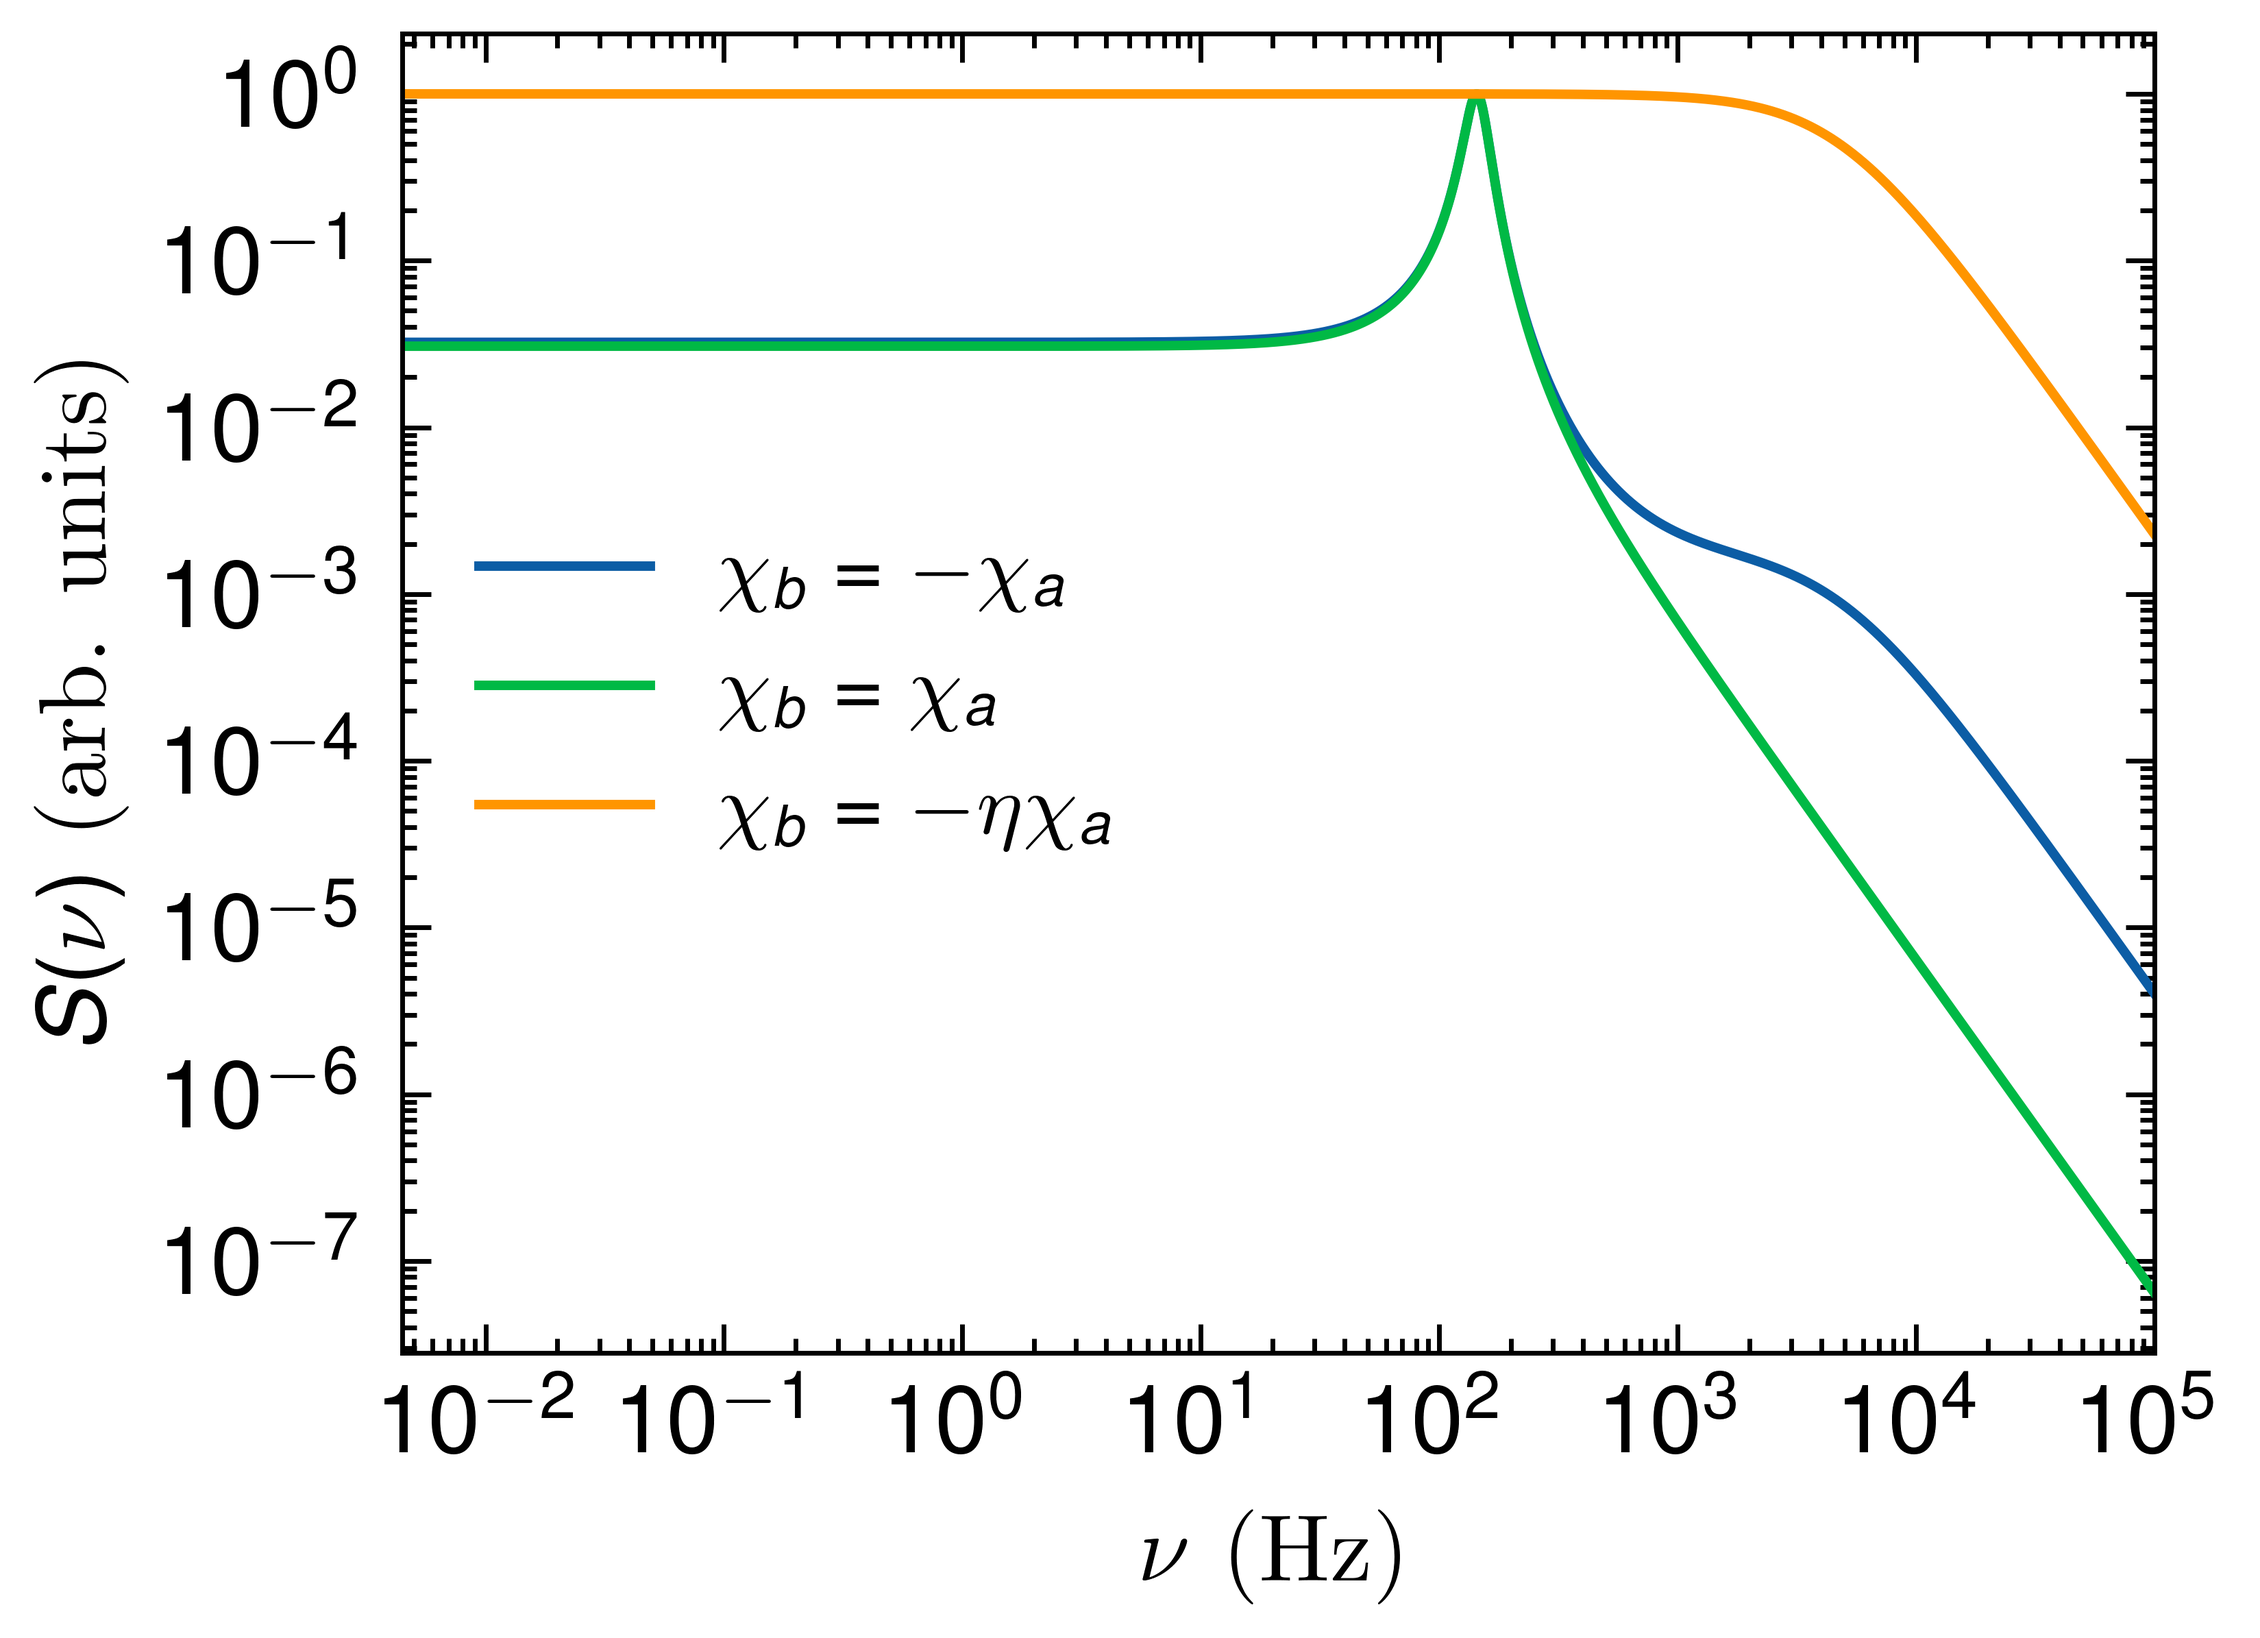
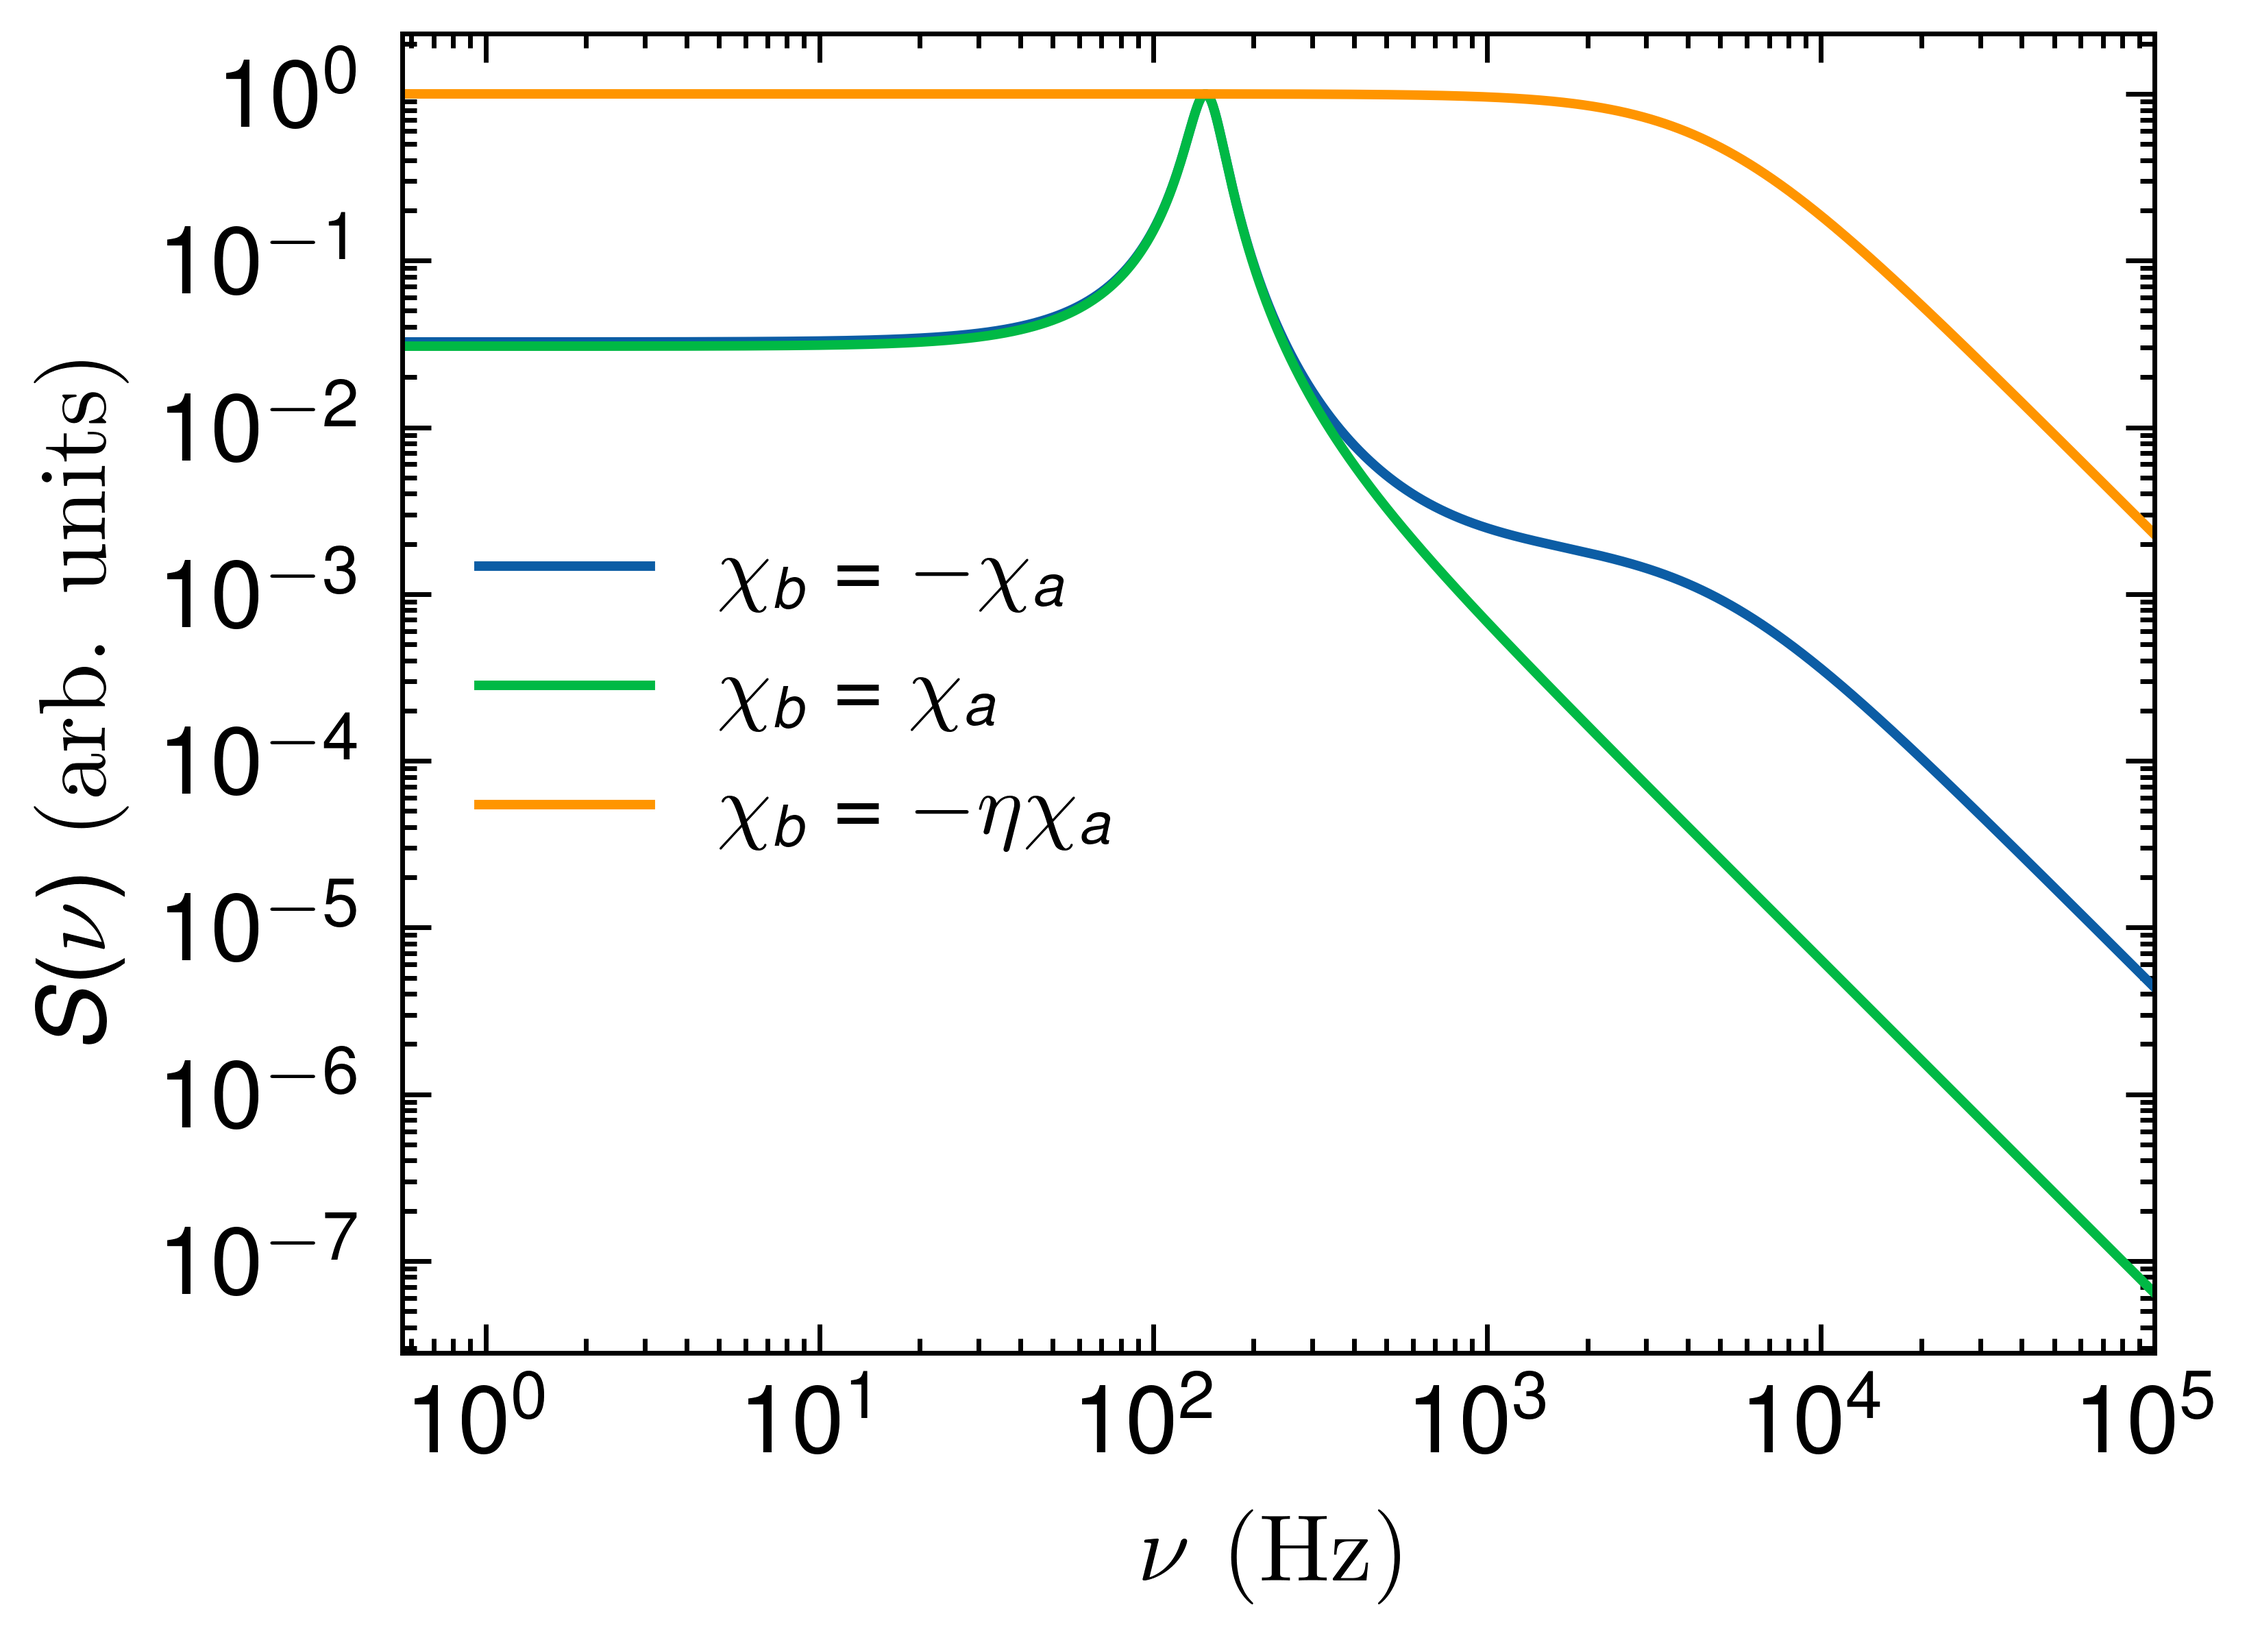
1

diff --git a/test4.py b/test4.py
@@ -15,11 +15,12 @@ import scienceplots
 from tqdm import trange
 
 I=3/2
-omega_0=0.05
+omega_0=0.01
 dt=0.01
-T=200
+T=50000
 # cycle=round(5e5)
 # omega_0=0.05
+P=0.99
 # --------------------------------Properties of the alkali metal atom-----------------------------------#
 a = round(I + 1 / 2)
 b = round(I - 1 / 2)
@@ -35,13 +36,10 @@ Sz = U.T.conjugate() @ Sz @ U
 
 # --------------------------------Characterize interactions envolved-----------------------------------#
 Rse = 1
-# --------------------------------Define the initial state-----------------------------------#
-hyperfine = block_diag(np.ones((2 * a + 1, 2 * a + 1)), np.ones((2 * b + 1, 2 * b + 1)))  # 一个原子
-H = omega_0 * (az - bz)  # 投影定理
-q, v = np.linalg.eig(H)
-evolving_B = v @ np.diag(np.exp(-1j * q * dt)) @ np.linalg.inv(v)
 
-theta = np.pi / 180
+
+# --------------------------------Define the initial state-----------------------------------#
+theta = np.pi / 2
 phi = 0
 a_theta = spin_Jx(a) * np.sin(theta) * np.cos(phi) + spin_Jy(a) * np.sin(theta) * np.sin(phi) + spin_Jz(a) * np.cos(
     theta)
@@ -50,23 +48,51 @@ b_theta = spin_Jx(b) * np.sin(theta) * np.cos(phi) + spin_Jy(b) * np.sin(theta) 
 qa, va = np.linalg.eig(a_theta.full())
 qb, vb = np.linalg.eig(b_theta.full())
 v = block_diag(va, vb)
-eigenvalues = np.hstack((qa, qb))
-cycle=round(T/dt)
-module = np.zeros(cycle)
-PP = np.zeros(cycle)
-Gammam1 = np.zeros(cycle)
-Gammam2 = np.zeros(cycle)
-
-P=0.5
+q = np.hstack((qa, qb))
 Rho_ini = np.zeros(2 * (a + b + 1))
 # # -----------------spin temperature state-----------------#
 beta = np.log((1 + P) / (1 - P))
 for i in np.arange(0, 2 * (a + b + 1), 1):
-    Rho_ini = Rho_ini + np.exp(beta * eigenvalues[i]) * v[:, [i]] * v[:, [i]].T.conjugate()
+    Rho_ini = Rho_ini + np.exp(beta * q[i]) * v[:, [i]] * v[:, [i]].T.conjugate()
 Rho_ini = Rho_ini / np.trace(Rho_ini)
-Rhot = Rho_ini
 
-for n in np.arange(0,cycle,1):
+# -----------------eigenstates-----------------#
+
+# Rho_ini = np.outer(np.array([0, 1, 0, 0, 0, 0, 0, 0]), np.array([0, 1, 0, 0, 0, 0, 0, 0]))
+
+# --------------------------------------Evolution under hyperfine effect, etc.--------------------------------#
+Rhot = Rho_ini
+hyperfine = block_diag(np.ones((2 * a + 1, 2 * a + 1)), np.ones((2 * b + 1, 2 * b + 1)))  # 一个原子
+cycle=round(T/dt)
+FF = np.zeros(cycle)
+PP = np.zeros(cycle)
+Gammam1 = np.zeros(cycle)
+Gammam2 = np.zeros(cycle)
+Gammam3 = np.zeros(cycle)
+
+# MFx = np.array([])
+# MFy = np.array([])
+# MPx = np.array([])
+# MPy = np.array([])
+H = omega_0 * (az - bz)  # 投影定理
+q, v = np.linalg.eig(H)
+evolving_B = v @ np.diag(np.exp(-1j * q * dt)) @ np.linalg.inv(v)
+for k in np.arange(10000):
+    # -----------------Evolution-----------------#
+    x1 = Rhot @ Sx
+    x2 = Rhot @ Sy
+    x3 = Rhot @ Sz
+    AS = 3 / 4 * Rhot - (Sx @ x1 + Sy @ x2 + Sz @ x3)
+    alpha = Rhot - AS
+    mSx = np.trace(x1)
+    mSy = np.trace(x2)
+    mSz = np.trace(x3)
+    mSS = mSx * Sx + mSy * Sy + mSz * Sz
+    Rhot = evolving_B @ Rhot @ evolving_B.T.conjugate()  # Zeeman effect
+    Rhot = Rse * (alpha + 4 * alpha @ mSS - Rhot) * dt + Rhot
+    Rhot = hyperfine * Rhot
+
+for n in trange(cycle):
     # -----------------Evolution-----------------#
     x1 = Rhot @ Sx
     x2 = Rhot @ Sy
@@ -85,44 +111,35 @@ for n in np.arange(0,cycle,1):
 
     eta=(5+3*P_t**2)/(1-P_t**2)
     q=2*(3+P_t**2)/(1+P_t**2)
-
-    if a==2:
-        eta=(5+3*P_t**2)/(1-P_t**2)
-        q=2*(3+P_t**2)/(1+P_t**2)
-    if a==3:
-        q=2*(19+26*P_t**2+3*P_t**4)/(3+10*P_t**2+3*P_t**4)
-        eta=(q+6)/(q-6)
-    if a==4:
-        q=2*(11+35*P_t**2+17*P_t**4+P_t**6)/(1+7*P_t**2+7*P_t**4+P_t**6)
-        eta=(q+8)/(q-8)
-
-    max=np.trace((ax)@Rhot)
-    mbx=np.trace((bx)@Rhot)
-    may=np.trace((ay)@Rhot)
-    mby=np.trace((by)@Rhot)
-    mcx=np.trace((ax-bx)@Rhot)
-    mcy=np.trace((ay-by)@Rhot)
-    module[n]=np.arccos(((max**2+may**2)+(mbx**2+mby**2)-(mcx**2+mcy**2))/(2*np.sqrt((max**2+may**2))*np.sqrt((mbx**2+mby**2))))
-    PP[n]=max
+    max = np.trace((ax)@Rhot)
+    mbx = np.trace((bx)@Rhot)
+    mFx = max+mbx
+    may = np.trace((ay)@Rhot)
+    mby = np.trace((by)@Rhot)
+    mFy = may+mby
+    module=np.sqrt(mFx**2+mFy**2)
+    ex=mFx/module
+    ey=mFy/module
+    maX=max*ex+may*ey
+    mbX=mbx*ex+mby*ey
+    maY=np.sqrt((max**2+may**2)-(max*ex+may*ey)**2)
+    mbY=-np.sqrt((mbx**2+mby**2)-(mbx*ex+mby*ey)**2)
+    Gammam1[n] =maX-eta*mbX
+    Gammam2[n] =maY-eta*mbY
+    Gammam3[n] =maY+eta*mbY
 
 
-    # Vx = np.trace(Rhot @ ((ax + bx) @ (ax + bx) + (ay + by) @ (ay + by) + (az + bz) @ (az + bz)))
-    # V[n] = V
 
-plt.style.use(['science','nature'])
-with plt.style.context(['science','nature']):
-    fig = plt.figure()
-    plt.rc('font',family='Times New Roman')
-    ax3 = fig.add_subplot(111)
-    ax3.plot(np.arange(0,cycle,1)*dt,module)
-    # ax3.plot(np.arange(0,cycle,1)*dt,PP)
-    # ax3.plot(PP, Gammam1)
-    # ax3.plot(PP, Gammam2)
 
-    # ax3.set_xlabel('$P$', fontsize=10)
-    # ax3.set_ylabel('$\Gamma_t^- \\approx \Gamma_z^-$ ($R_{\\rm{se}}$) ', fontsize=10)
-    ax3.tick_params(axis='x', labelsize='10')
-    ax3.tick_params(axis='y', labelsize='10')
-    # ax3.set_xlim([0,1])
-plt.savefig('ndd',dpi=1000)
+
+
+plt.figure()
+# plt.plot(PP,(fp2/DD-Gammam/fm2)/(fp2/DD+Gammam/fm2))
+# plt.plot(np.arange(0,cycle,1)*dt,(Gammam2/Gammam1))
+plt.plot(np.arange(0,cycle,1)*dt,(Gammam2))
+plt.plot(np.arange(0,cycle,1)*dt,(Gammam3))
+
 plt.show()
+    
+
+

diff --git a/Noise spectrum.py b/Noise spectrum.py
@@ -6,8 +6,25 @@
 import numpy as np
 import matplotlib.pyplot as plt
 import scienceplots
+from scipy.special import wofz
 
-omega = np.arange(0,100000, 0.01)
+def voigt_profile(x, sigma, gamma):
+    """
+    Calculate the Voigt profile.
+
+    Parameters:
+        x (array-like): The x-values at which to calculate the profile.
+        sigma (float): The Gaussian standard deviation.
+        gamma (float): The Lorentzian full-width at half-maximum.
+
+    Returns:
+        array-like: The Voigt profile values at the specified x-values.
+    """
+    z = (x + 1j * gamma) / (sigma * np.sqrt(2))
+    v = wofz(z).imag / (sigma * np.sqrt(2 * np.pi))
+    return v
+
+omega = np.arange(0,100000, 1)
 P=0.8
 q=2*(3+P**2)/(1+P**2)
 Omega = 1000/q*4/2/np.pi
@@ -31,14 +48,24 @@ Fxb2= Fxb2/Z
 
 Fx2= Fxa2+Fxb2
 Fxn2= Fxa2+eta**2*Fxb2
+
+Gammap=0.03        
+Gammad=0.5       
+sigma=Gammad/(2*np.sqrt(2*np.log(2)))
+
+delta_nva2=1
+chia=-voigt_profile(delta_nva2,sigma,Gammap)/4-3/4*voigt_profile(delta_nva2+0.8,sigma,Gammap)
+chib=5*voigt_profile(delta_nva2-6.8,sigma,Gammap)/4-1/4*voigt_profile(delta_nva2-6,sigma,Gammap)
+chip=(eta*chia+chib)/(eta+1)
+chim=(chia-chib)/(eta+1)
+
 Lorentzianpp = gammap / (gammap**2 + (omega - Omega) ** 2)/2/np.pi
 Lorentzianpn = gammap / (gammap**2 + (omega + Omega) ** 2)/2/np.pi
 Lorentziannp = gamman / (gamman**2 + (omega - Omega) ** 2)/2/np.pi
 Lorentziannn = gamman / (gamman**2 + (omega + Omega) ** 2)/2/np.pi
 
 
-chip2=(eta-1)**2/(eta+1)**2
-chin2=4/(eta+1)**2
+
 plt.style.use(['science','nature'])
 with plt.style.context(['science','nature']):
     plt.rc('font',family='Times New Roman')
@@ -46,9 +73,9 @@ with plt.style.context(['science','nature']):
     # p3, = plt.plot(omega, 10*Fx2*(Lorentzianpp + Lorentzianpn)-10*Fz/2*(Lorentzianpp - Lorentzianpn))
     # p1, = plt.plot(omega, 10*Fx2*(Lorentzianpp + Lorentzianpn))
     # p2, = plt.plot(omega, -10*Fz/2*(Lorentzianpp - Lorentzianpn))
-    p1, = plt.loglog(omega, (chin2*Fxn2*(Lorentziannp + Lorentziannn)+chip2*Fx2*(Lorentzianpp + Lorentzianpn))/np.max((chin2*Fxn2*(Lorentziannp + Lorentziannn)+chip2*Fx2*(Lorentzianpp + Lorentzianpn))))
-    p2, = plt.loglog(omega, (chip2*Fx2*(Lorentzianpp + Lorentzianpn))/np.max((chip2*Fx2*(Lorentzianpp + Lorentzianpn))))
-    p3, = plt.loglog(omega, (chin2*Fxn2*(Lorentziannp + Lorentziannn))/np.max( (chin2*Fxn2*(Lorentziannp + Lorentziannn))))
+    p1, = plt.loglog(omega, (chim**2*Fxn2*(Lorentziannp + Lorentziannn)+chip**2*Fx2*(Lorentzianpp + Lorentzianpn))/np.max((chim**2*Fxn2*(Lorentziannp + Lorentziannn)+chip**2*Fx2*(Lorentzianpp + Lorentzianpn))))
+    p2, = plt.loglog(omega, (chip**2*Fx2*(Lorentzianpp + Lorentzianpn))/np.max((chip**2*Fx2*(Lorentzianpp + Lorentzianpn))))
+    p3, = plt.loglog(omega, (chim**2*Fxn2*(Lorentziannp + Lorentziannn))/np.max( (chim**2*Fxn2*(Lorentziannp + Lorentziannn))))
 
     plt.xticks(fontsize=10)
     plt.yticks(fontsize=10)
@@ -63,5 +90,5 @@ with plt.style.context(['science','nature']):
     plt.xlim([0,100000])
     # plt.ylim([-2,6])
     plt.savefig('imag/Noise spectrum.png', dpi=1000)
-
+plt.show()
 
